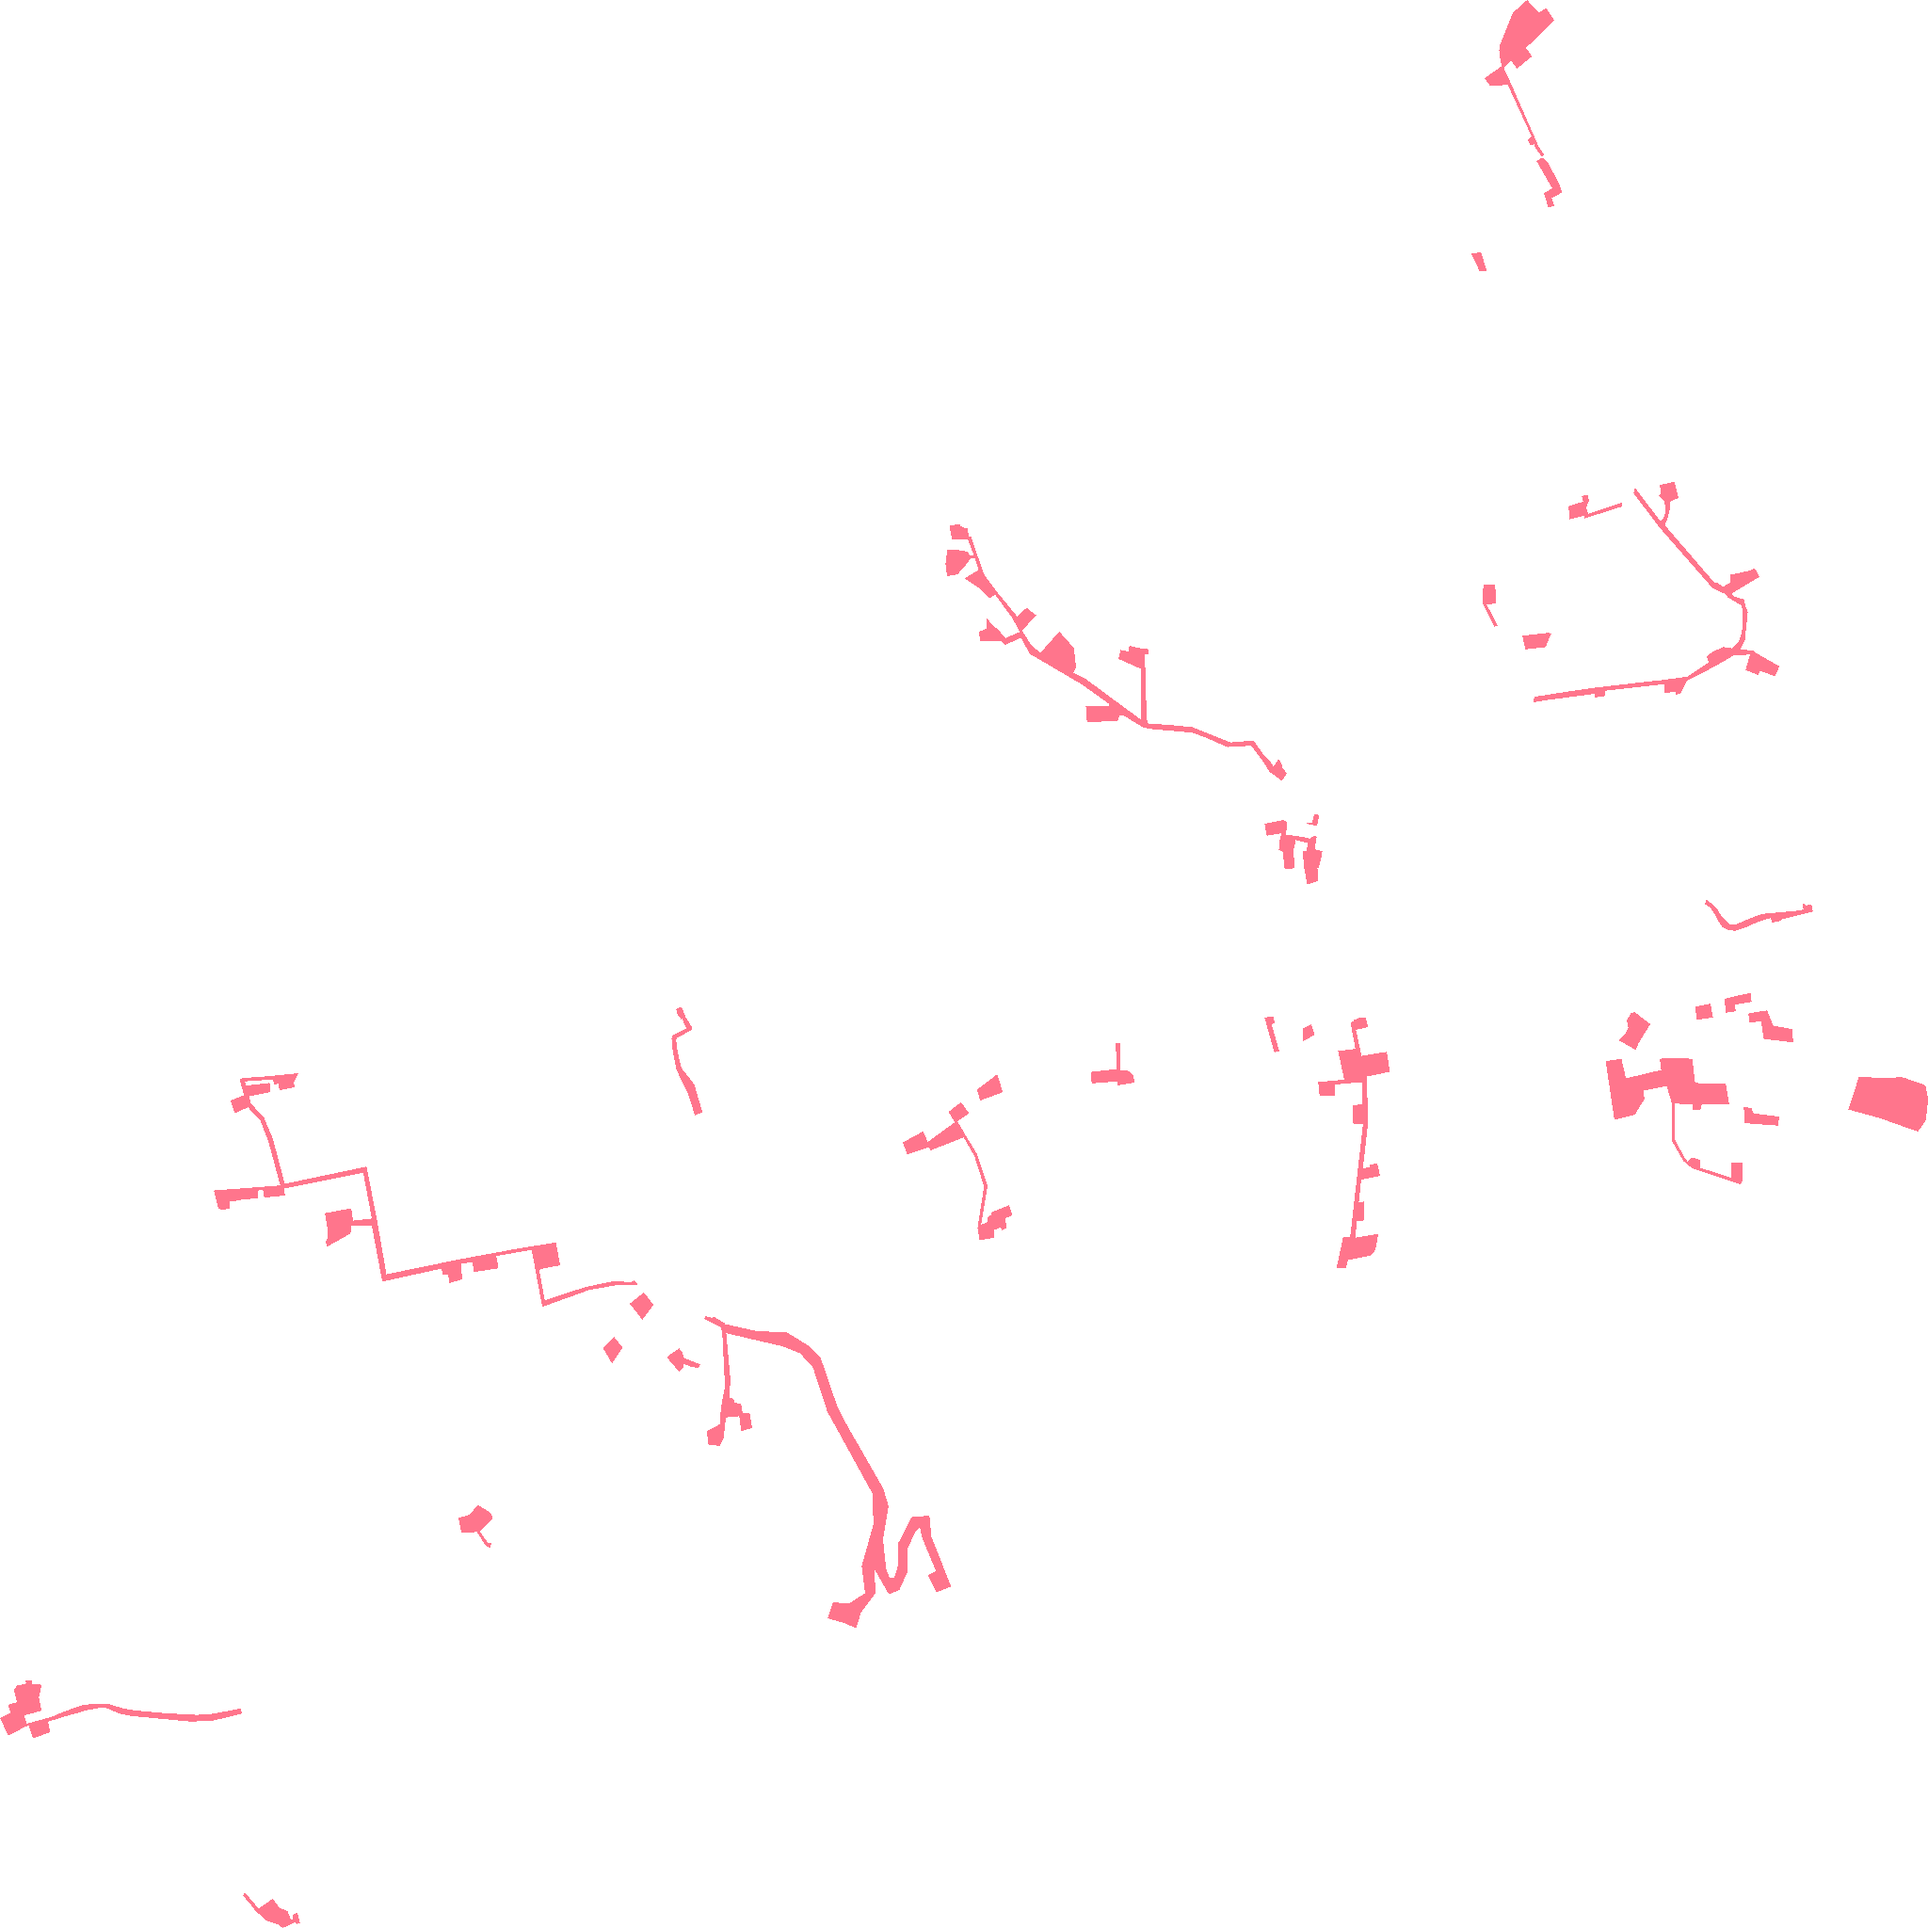
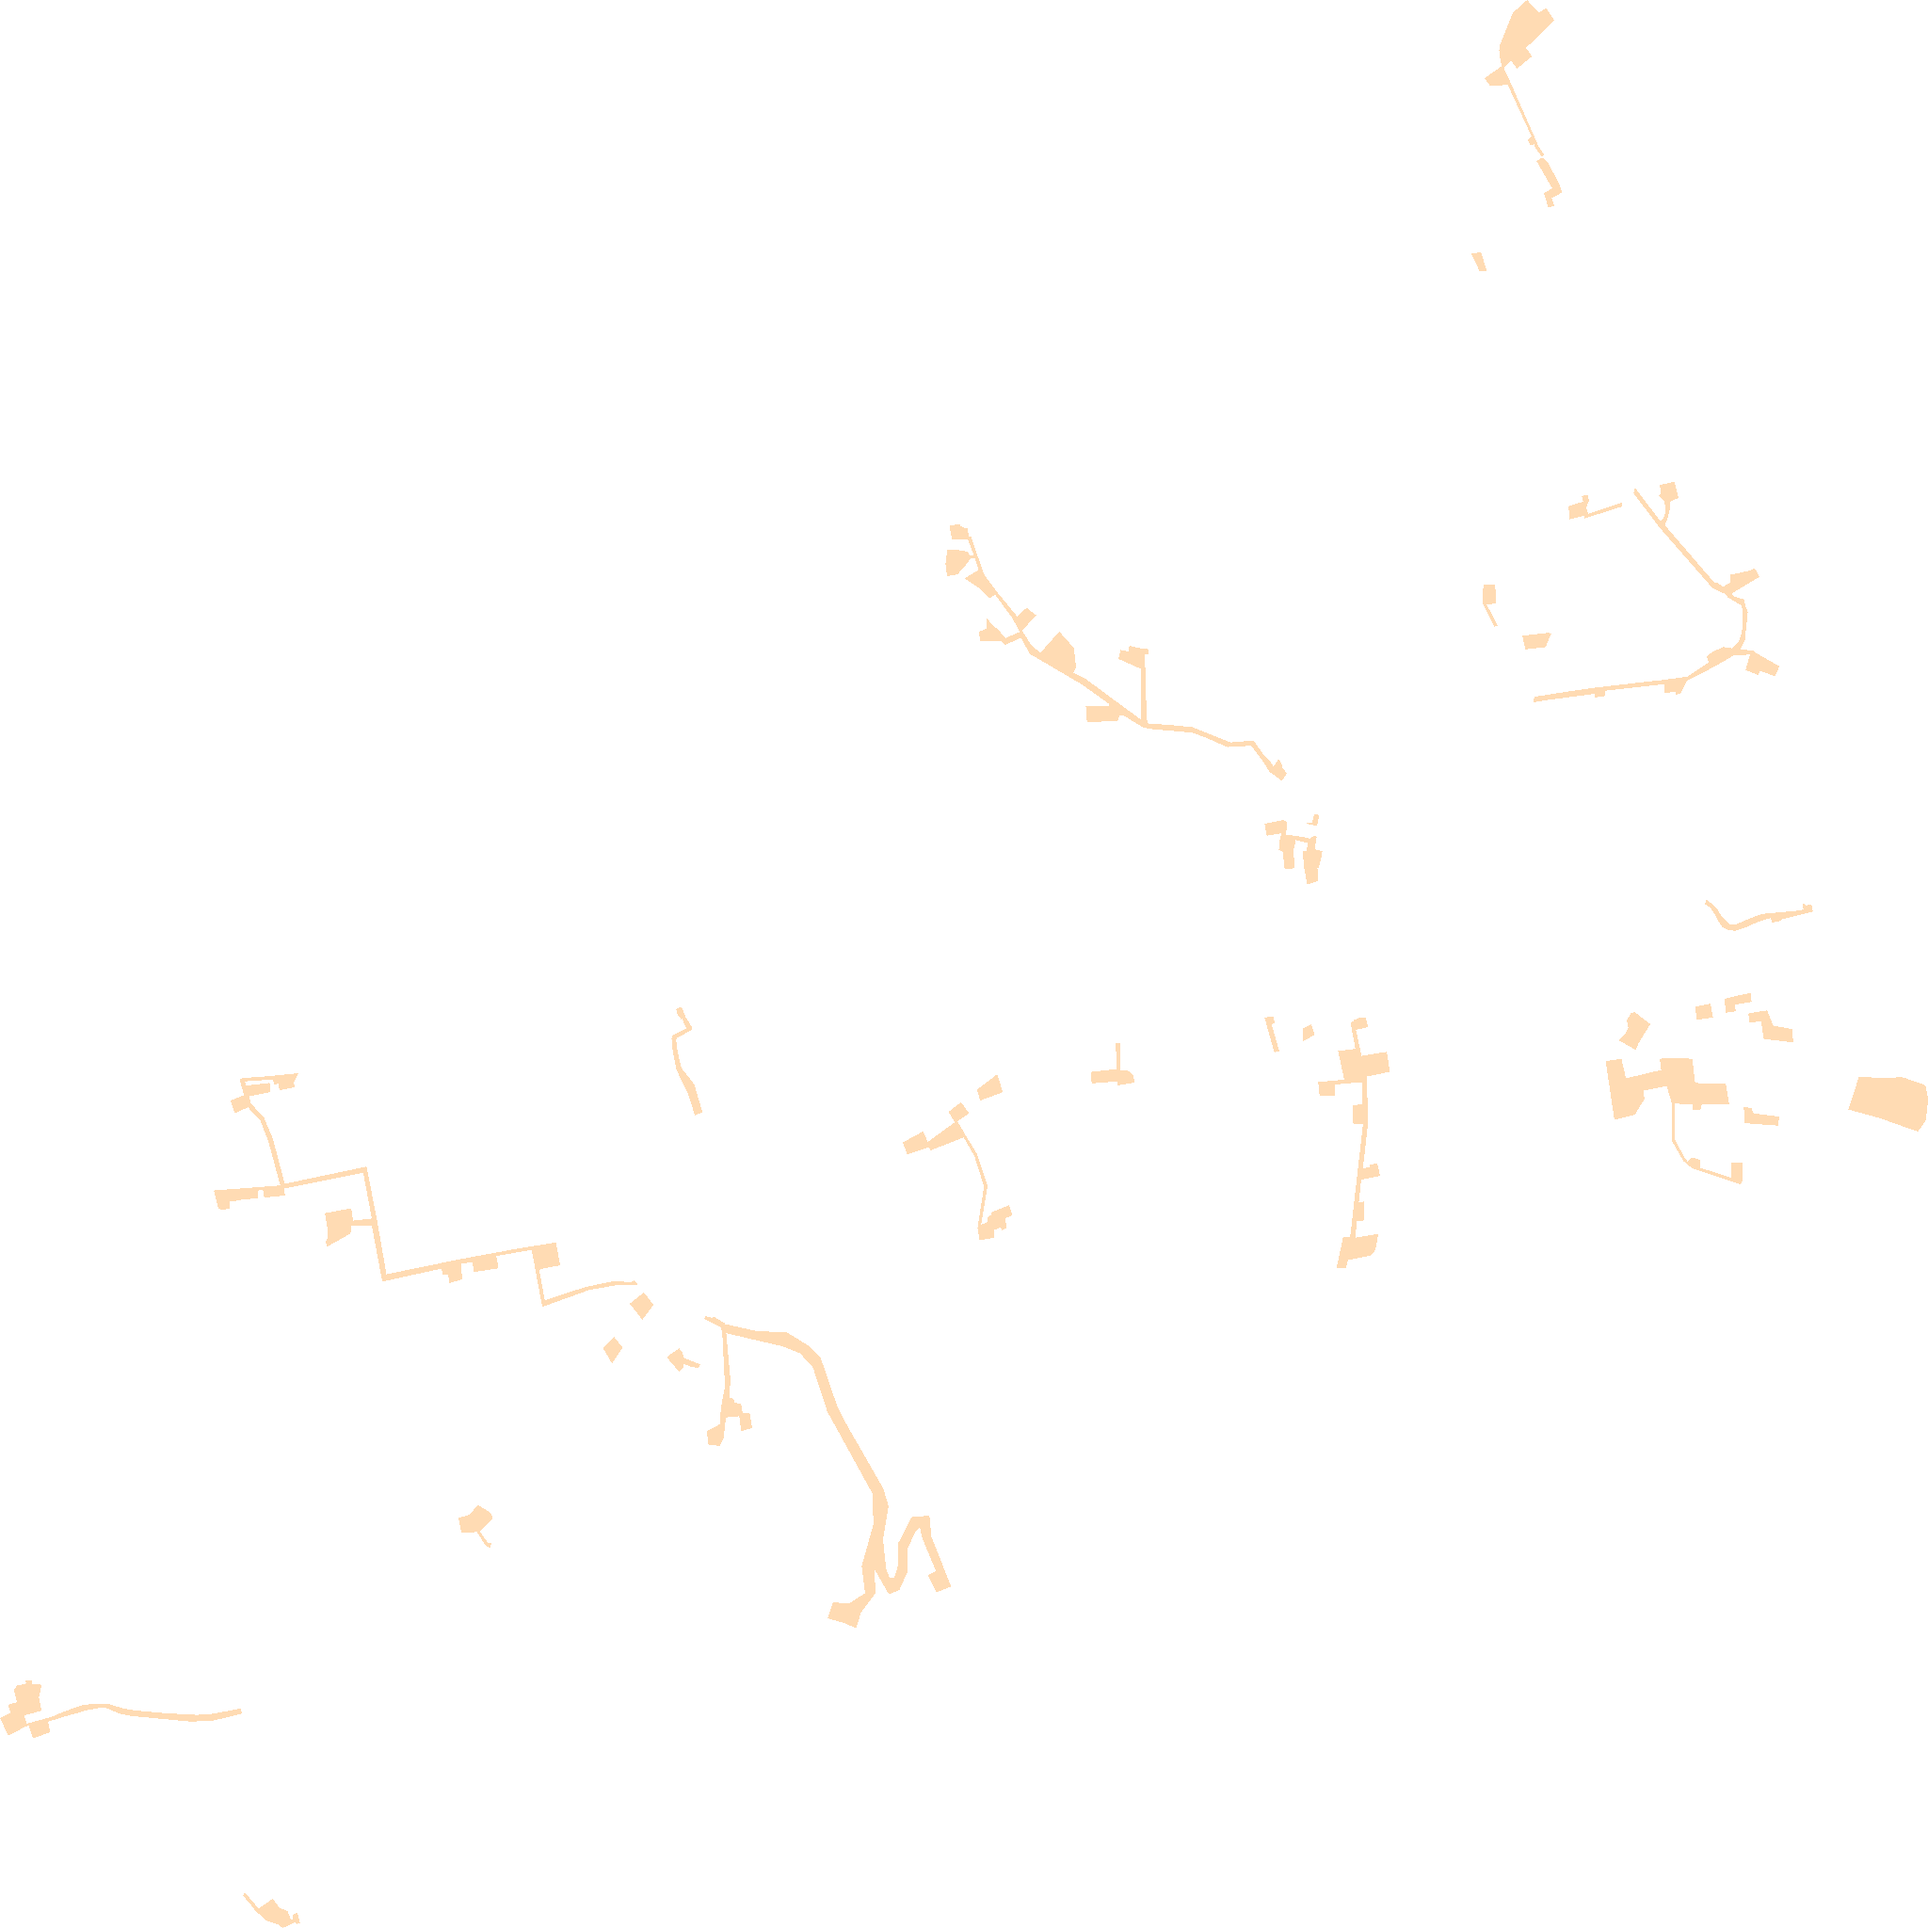
Karte p_598

diff --git a/p_598.html b/p_598.html
@@ -128,8 +128,9 @@
 <body>
     <div id="map"></div>
     <div id="legend">
-        <div><span style="display:inline-block; width:20px; height:10px; background:#FF7F00; margin-right:5px;"></span>Ausbauphase 1: Ausbau bei ausreichender Nachfrage</div>
+        <div><span style="display:inline-block; width:20px; height:10px; background:#FF7F00; margin-right:5px;"></span>Ausbauphase 1: Glasfasernetz vorhanden oder geplant</div>
         <div><span style="display:inline-block;width:20px; height:10px; background:#00143C; margin-right:5px;"></span>Ausbauphase 2: Interessenbekundung möglich</div>
+        <div><span style="display:inline-block;width:20px; height:10px; background:#FFC17D; margin-right:5px;"></span>Ausbauphase 3: Gefördertes Ausbaugebiet </div>
     </div>
     <script>
     const bounds = [[49.103411695, 8.963309575], [49.176505399, 9.0832782]];
